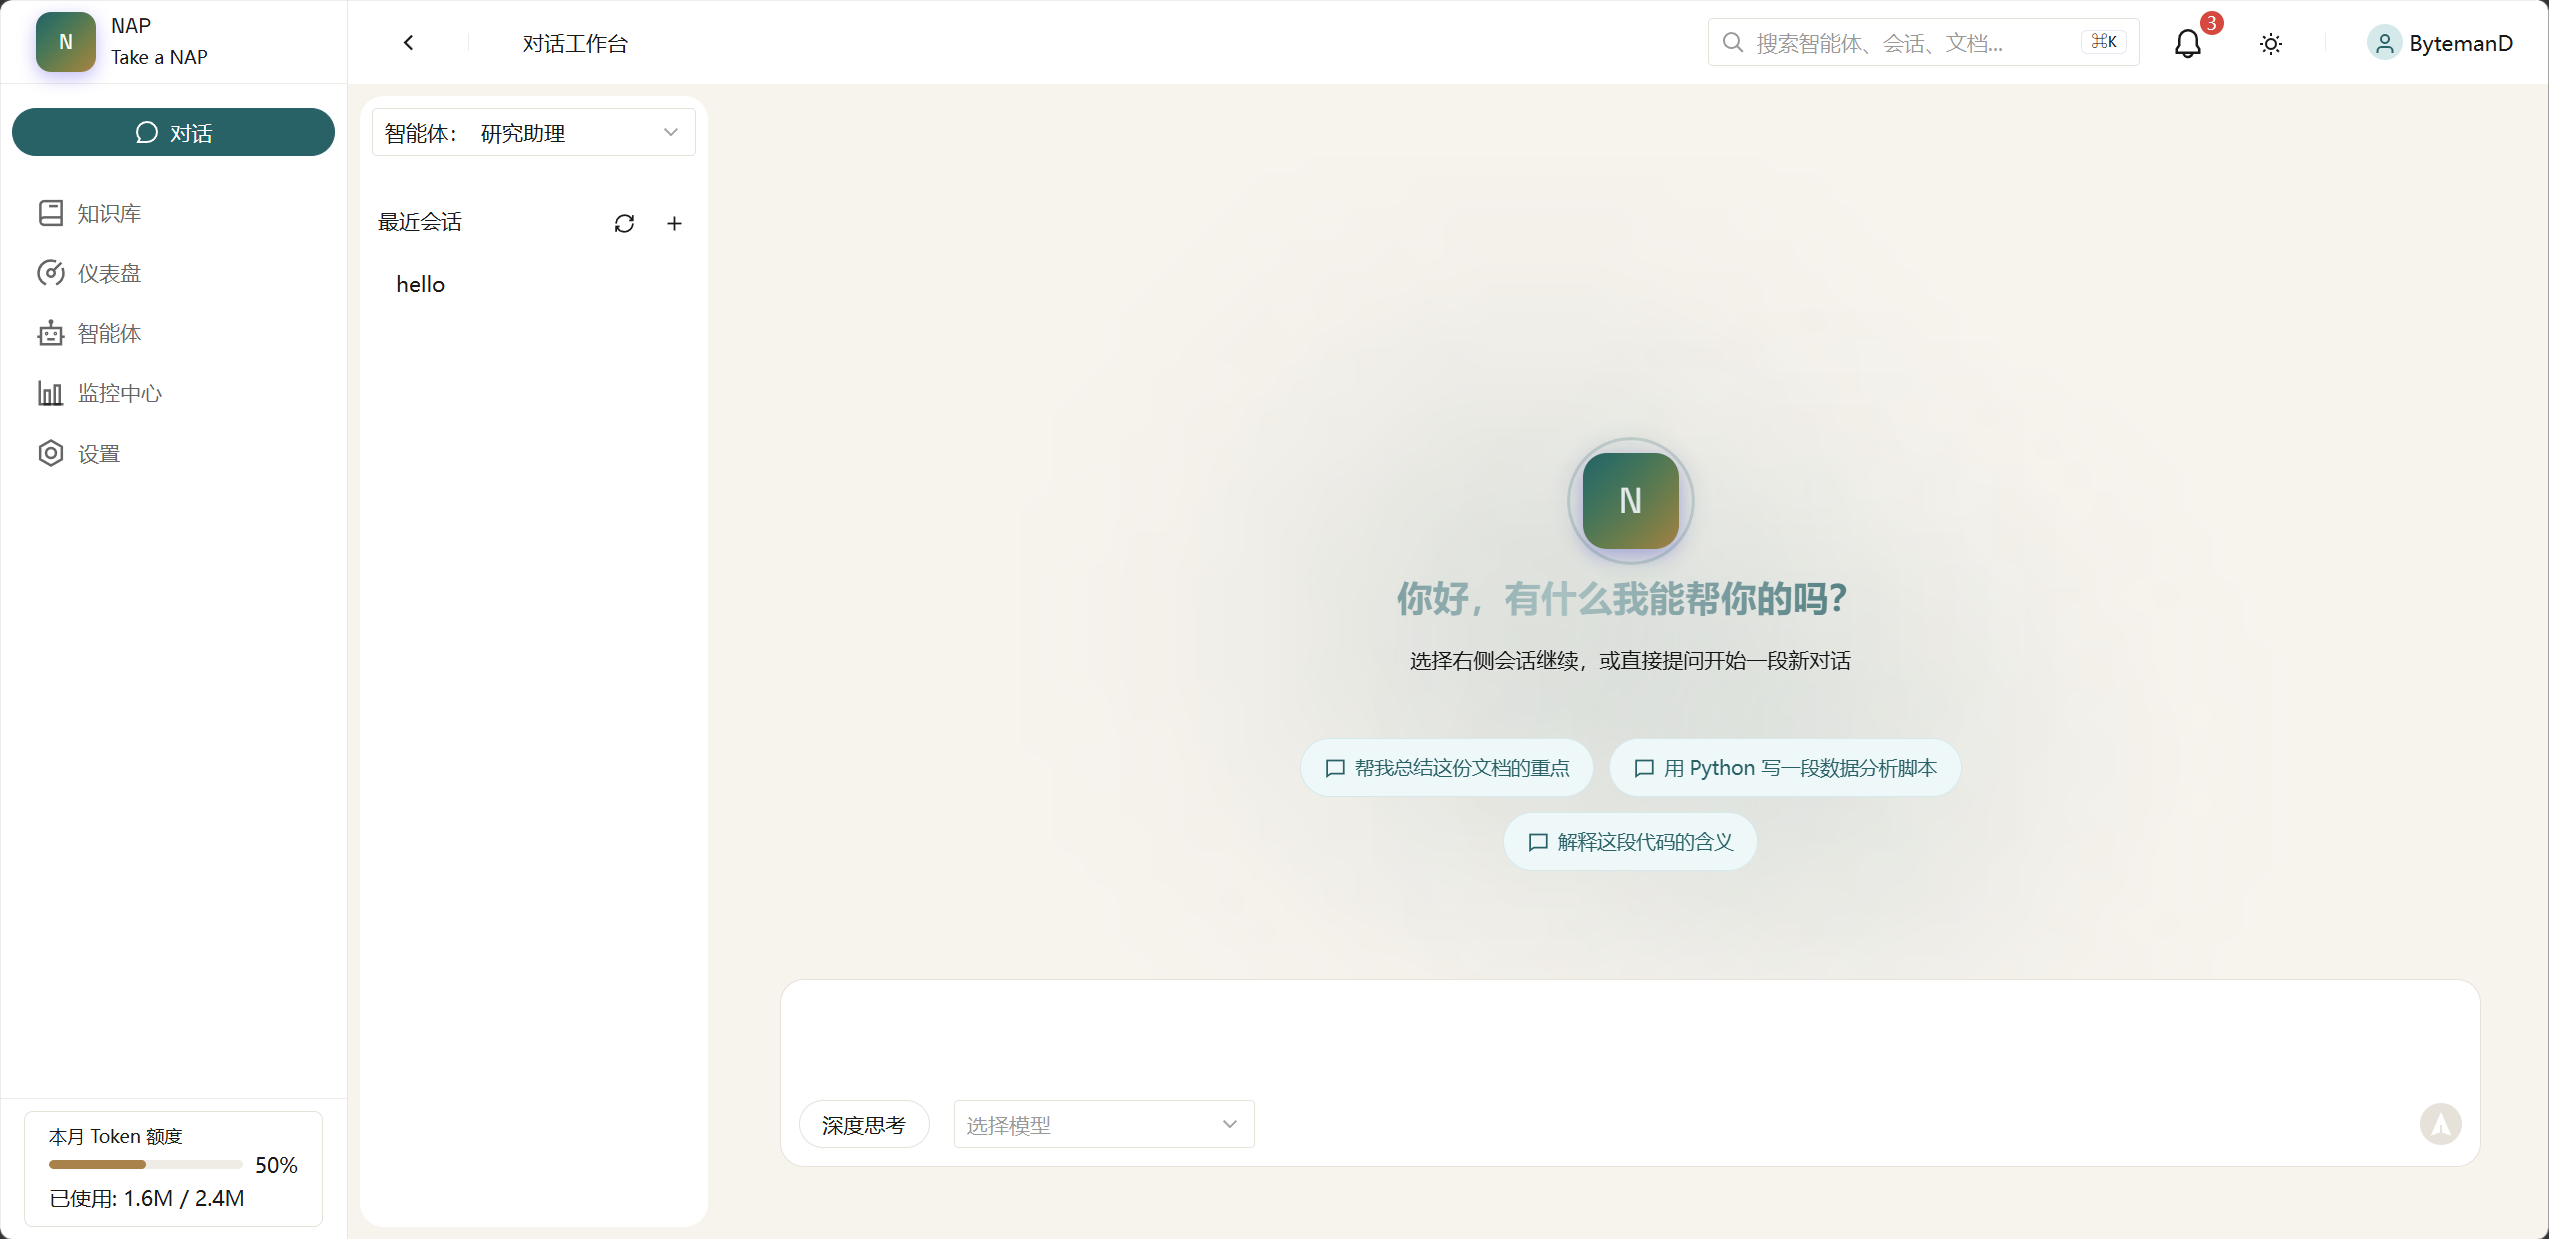
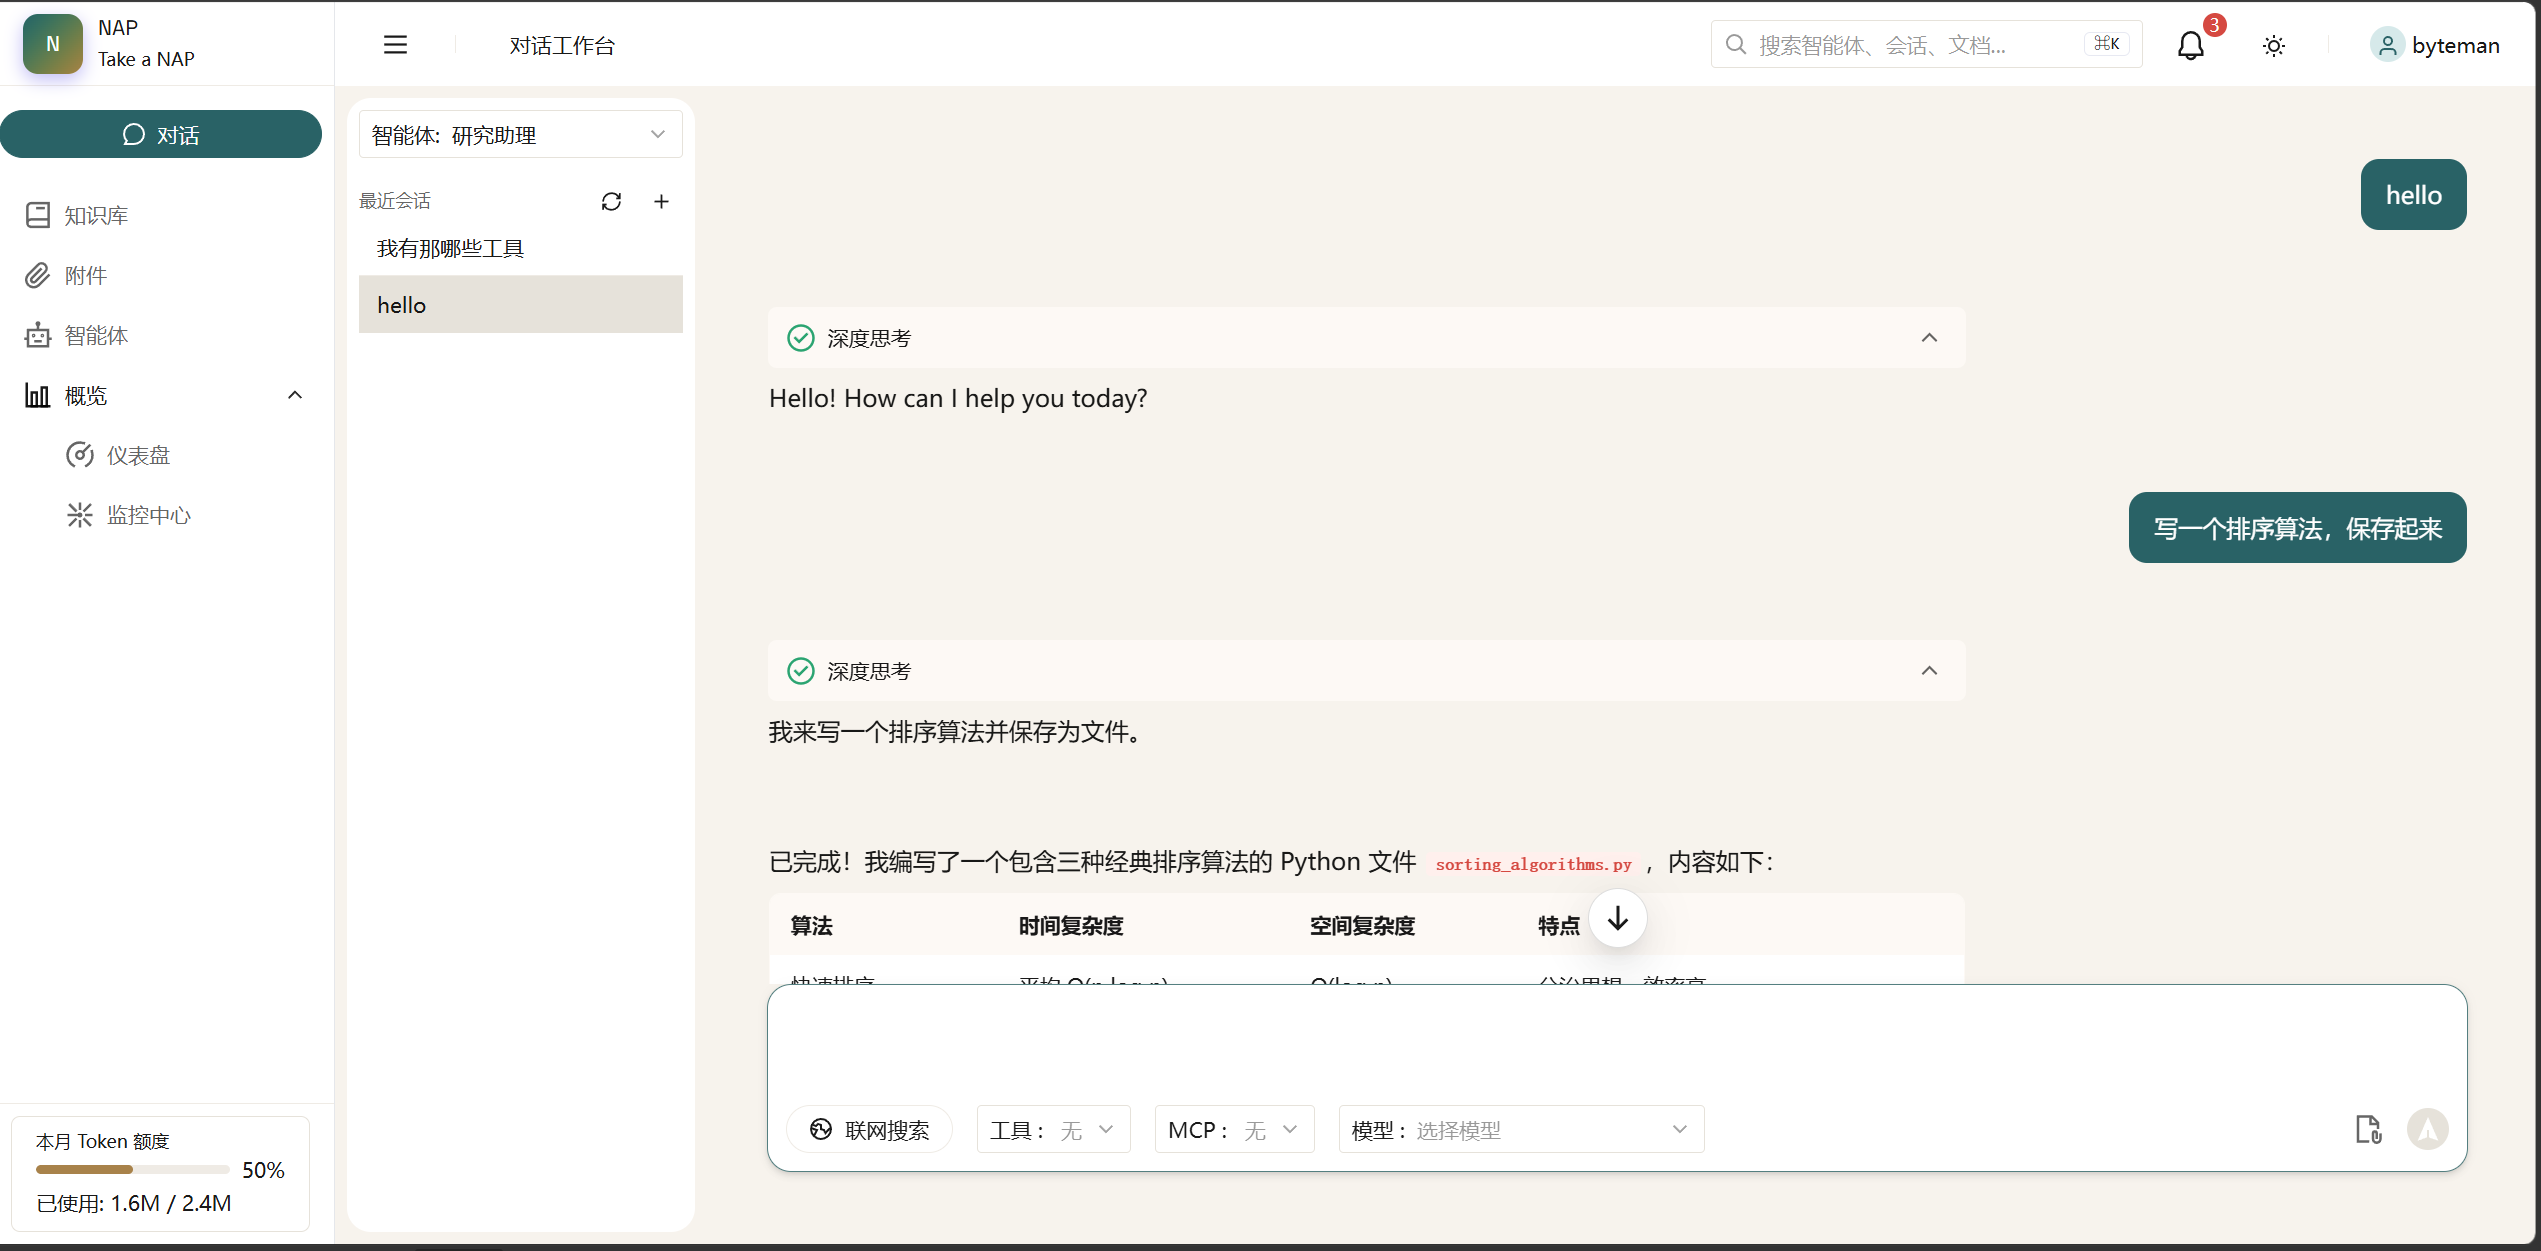
feat: 更新文档，添加启动脚本

diff --git a/nap-backend/nap/master/manager.py b/nap-backend/nap/master/manager.py
@@ -62,15 +62,22 @@ class MasterManager(BaseManager):
         self.knowledge_client = default_client(
             base_url=CONF.master.knowledge_base_url, raise_for_status=True
         )
-        self._agent: AsyncAgent = AsyncAgent()
+        self._agent: AsyncAgent | None = None
 
     async def start(self):
         await super().start()
-        # self._agent = AsyncAgent()
+        self._agent = AsyncAgent()
+
+    @property
+    def agent(self):
+        if not self._agent:
+            self._agent = AsyncAgent()
+        return self._agent
 
     async def stop(self):
         await super().stop()
-        await self._agent.stop()
+        if self._agent:
+            await self._agent.stop()
 
     def list_llm(self):
         return LLMs.query(LLMs.user == context.getvar("account"))
@@ -296,7 +303,7 @@ class MasterManager(BaseManager):
             # tool_args=db_agent.tools,
         )
 
-        async for event in self._agent.chat(runtime_context, query):
+        async for event in self.agent.chat(runtime_context, query):
             if isinstance(event, AgentCallback):
                 self.run_background_job(event.create)
                 continue
@@ -319,11 +326,11 @@ class MasterManager(BaseManager):
         return STORE_SERVICE.get_raw(knowledge)
 
     def list_tools(self):
-        return self._agent.toolkits
+        return self.agent.toolkits
         # return [ToolModel.from_llm_tool(x) for x in CUSTOM_TOOLS]
 
     async def list_messages(self, session: Session | str):
-        return await self._agent.list_messages(session)
+        return await self.agent.list_messages(session)
 
     async def save_attachment(self, name: str, content: bytes):
         attachment = Attachment(

diff --git a/nap-backend/nap/cmd/root.py b/nap-backend/nap/cmd/root.py
@@ -1,11 +1,16 @@
+import os
+
 import click
 
-from nap.cmd import agent, session, knowledge, knowledge_base, tools
+import dotenv
+from nap.cmd import agent, session, knowledge, llm, knowledge_base, tools
+from pystonic.common import context
 
 
 @click.group()
 def root():
-    pass
+    dotenv.load_dotenv()
+    context.setvars(account=os.getenv("NAP_USERNAME"))
 
 
 def main():
@@ -14,6 +19,7 @@ def main():
     root.add_command(agent.root)
     root.add_command(session.root)
     root.add_command(tools.root)
+    root.add_command(llm.root)
     root()
 
 

diff --git a/nap-backend/nap/cmd/tools.py b/nap-backend/nap/cmd/tools.py
@@ -1,13 +1,19 @@
+import asyncio
+
 import click
 from nap.master.manager import MANAGER
 from pystonic.pretty.output import print_models
 
 
-@click.group(name="tools")
+@click.group(name="tool")
 def root():
     pass
 
 
+async def _list_tools():
+    return MANAGER.list_tools()
+
+
 @root.command("list")
 def list_tools():
-    print_models(MANAGER.list_tools())
+    print_models([x.metadata() for x in asyncio.run(_list_tools())])

diff --git a/nap-backend/nap/cmd/llm.py b/nap-backend/nap/cmd/llm.py
@@ -1,0 +1,13 @@
+import click
+from nap.master.manager import MANAGER
+from pystonic.pretty.output import print_models
+
+
+@click.group(name="llm")
+def root():
+    pass
+
+
+@root.command("list")
+def list_tools():
+    print_models(MANAGER.list_llm())

diff --git a/README.md b/README.md
@@ -4,7 +4,10 @@
 
 NAP 是一个轻量级的 AI 智能体与知识库融合平台：支持创建、配置多种智能体并与之对话，同时以知识库驱动检索增强，让每一次回答都有据可依。
 
-![系统截图](docs/chat.png)
+| 预览 |  |
+|------|------|
+| ![对话](docs/chat.png) | ![监控](docs/monitor.png) |
+
 
 ---
 
@@ -13,11 +16,28 @@ NAP 是一个轻量级的 AI 智能体与知识库融合平台：支持创建、
 | 模块 | 说明 |
 |------|------|
 | **仪表盘** | 运行状态总览、核心指标统计 |
-| **智能体** | 创建 / 编辑 / 删除智能体，配置工具与知识库 |
-| **对话工作台** | 流式对话、思考过程可视化、会话管理 |
-| **知识库** | 文档上传与 URL 抓取，向量化检索 |
-| **监控中心** | Trace 追踪、延迟分布、Token 与成本统计 |
-| **设置** | LLM 提供商配置、系统通知管理 |
+| **智能体** | 创建 / 编辑 / 删除智能体，配置 LLM、工具、知识库与 MCP |
+| **对话工作台** | 流式对话、思考过程可视化、会话管理、附件上下文 |
+| **知识库** | 文档上传与 URL 抓取，向量化检索与处理进度 |
+| **附件** | 文件上传管理，支持 md / txt / html 在线预览与下载 |
+| **监控中心** | Token 用量、延迟分布、调用统计 |
+| **设置** | LLM 提供商配置、MCP 服务管理 |
+
+---
+
+## 系统架构
+
+```mermaid
+flowchart LR
+    FE[前端 Vue 3<br/>:3000] -->|/api| MASTER[Master 服务<br/>FastAPI :8000]
+    MASTER -->|HTTP :8001| KB[Knowledge 服务<br/>FastAPI :8001]
+    MASTER --> DB
+    KB --> VEC[(ChromaDB)]
+    KB --> RAW[(文件存储)]
+```
+
+- **Master**：面向前端的业务服务，负责用户、智能体、会话、附件、监控，并编排 Agent 对话。
+- **Knowledge**：独立的向量化服务，负责文档解析、向量入库与检索召回。
 
 ---
 
@@ -28,10 +48,13 @@ NAP 是一个轻量级的 AI 智能体与知识库融合平台：支持创建、
 | 技术 | 用途 |
 |------|------|
 | Python 3.13 + FastAPI | Web 框架，异步接口 |
-| SQLModel | ORM，SQLite 持久化 |
+| SQLModel + SQLite | ORM 与持久化 |
+| pystonic | 应用脚手架（鉴权、日志、ORM、上下文） |
 | ChromaDB + LangChain | 文档向量化与检索 |
-| OpenAI Agents SDK / DeepAgents | Agent 协议与工具调用 |
+| OpenAI Agents SDK | Agent 协议与工具调用 |
+| LangGraph（checkpoint-sqlite） | 会话状态与持久化 |
 | SSE（sse-starlette） | 流式响应推送 |
+| markitdown | 文档 → Markdown 转换 |
 | Loguru | 日志记录 |
 
 ### 前端
@@ -39,34 +62,70 @@ NAP 是一个轻量级的 AI 智能体与知识库融合平台：支持创建、
 | 技术 | 用途 |
 |------|------|
 | Vue 3 + TypeScript | 响应式 UI |
+| Vite | 构建与开发服务器 |
 | TDesign Vue Next | 企业级组件库 |
 | @tdesign-vue-next/chat | AI 对话组件（消息流、输入框） |
 | Pinia | 状态管理 |
 | Vue Router | 路由 |
 | UnoCSS | 原子化 CSS |
 | ECharts（vue-echarts） | 图表渲染 |
+| markdown-it + highlight.js | Markdown 渲染与代码高亮 |
 
 ---
 
 ## 快速开始
 
-### 后端
+### 方式一：一键脚本（推荐）
+
+项目根目录提供了按服务启动的脚本，支持类 Unix 与 Windows：
+
+```bash
+./run-server.sh master       # 启动 Master 服务 (port 8000)
+./run-server.sh knowledge    # 启动 Knowledge 服务 (port 8001)
+./run-server.sh frontend     # 启动前端开发服务 (vite, port 3000)
+
+./run-server.sh master --port 9000   # 支持追加参数
+```
+
+```bat
+run-server.bat master
+run-server.bat knowledge
+run-server.bat frontend
+```
+
+> 首次运行前请先分别安装依赖（见下）。
+
+### 方式二：手动启动
+
+**后端**（需在 `nap-backend` 目录执行）：
 
 ```bash
 cd nap-backend
-uv sync                                      # 安装依赖
-uv run uvicorn nap.master.asgi:APP --reload  # 启动服务 http://localhost:8000
+uv sync                                            # 安装依赖
+
+uv run uvicorn nap.master.asgi:APP --reload --port 8000       # Master
+uv run uvicorn nap.knowledge.asgi:APP --reload --port 8001    # Knowledge
 ```
 
-### 前端
+**前端**：
 
 ```bash
 cd nap-frontend
-npm install        # 安装依赖
-npm run dev        # 启动开发服务器 http://localhost:3000
+npm install
+npm run dev        # http://localhost:3000
 ```
 
-前端开发服务器会将 `/api` 请求代理到后端 `localhost:8000`。
+前端开发服务器会把 `/api` 与 `/ws` 代理到 `localhost:8000`。
+
+> Master 默认通过 `http://localhost:8001` 访问 Knowledge 服务，可在配置中调整。
+
+### 服务端口
+
+| 服务 | 端口 | 说明 |
+|------|------|------|
+| Master | 8000 | 业务 API，接口文档 `/api/docs` |
+| Knowledge | 8001 | 向量化与检索 |
+| Frontend | 3000 | 开发服务器 |
 
 ---
 
@@ -74,24 +133,34 @@ npm run dev        # 启动开发服务器 http://localhost:3000
 
 ```
 next-agents-platform/
-├── nap-backend/                # 后端服务
-│   └── nap/
-│       ├── master/             # FastAPI 入口与路由
-│       │   ├── asgi.py         # ASGI 应用注册
-│       │   └── api/v1/         # REST 接口模块
-│       ├── llm/                # LLM 驱动层
-│       ├── knowledge/          # 知识库管理
-│       ├── db/                 # 数据库模型
-│       └── cmd/                # CLI 命令
-├── nap-frontend/               # 前端应用
+├── nap-backend/                    # 后端（uv 管理）
+│   ├── nap/
+│   │   ├── master/                 # Master 服务
+│   │   │   ├── asgi.py             # ASGI 入口（鉴权 / 路由注册）
+│   │   │   ├── manager.py          # 业务编排（智能体、知识、附件…）
+│   │   │   ├── agent/              # Agent 运行时
+│   │   │   │   └── tools/          # 工具集：builtin / web_search / mysql / mcp
+│   │   │   └── api/v1/             # REST 接口模块
+│   │   ├── knowledge/              # Knowledge 服务（独立 ASGI 应用）
+│   │   │   ├── api/v1/             # documents / retrival / knowledge
+│   │   │   └── graph/              # 文档处理流程
+│   │   ├── services/               # 通用服务：convert / enrich / vector / storage
+│   │   ├── db/                     # 数据模型与迁移
+│   │   ├── llm/                    # LLM 驱动层
+│   │   ├── common/                 # 配置、对象、客户端
+│   │   └── cmd/                    # CLI 命令
+│   └── pyproject.toml
+├── nap-frontend/                   # 前端（Vite + Vue 3）
 │   └── src/
-│       ├── pages/              # 页面组件
-│       ├── components/         # 通用与布局组件
-│       ├── stores/             # Pinia 状态
-│       ├── api/                # 后端接口封装
-│       ├── router/             # 路由配置
-│       └── styles/             # 主题与全局样式
-├── docs/                       # 文档与截图
+│       ├── pages/                  # 页面组件
+│       ├── components/             # 通用与布局组件
+│       ├── stores/                 # Pinia 状态
+│       ├── api/                    # 后端接口封装（axios）
+│       ├── router/                 # 路由配置
+│       └── styles/                 # 主题与全局样式
+├── docs/                           # 文档与截图
+├── run-server.sh                   # 服务启动脚本（类 Unix）
+├── run-server.bat                  # 服务启动脚本（Windows）
 └── README.md
 ```
 
@@ -99,20 +168,56 @@ next-agents-platform/
 
 ## API 接口
 
-基础路径：`/api/v1`
+基础路径：`/api/v1`，除注册与登录外均需携带 `Authorization: Bearer <token>`。
+
+### Master 服务（:8000）
 
 | 模块 | 路径 | 主要接口 |
 |------|------|---------|
-| Agents | `/agents` | CRUD + `/{uuid}/chat`（流式对话） |
-| Sessions | `/sessions` | 列表、消息历史、删除 |
-| Knowledge Base | `/knowledge-base` | CRUD + 文档上传 |
-| Knowledge | `/knowledge` | 文档详情与更新 |
-| LLMs | `/llms` | 模型提供商配置 CRUD |
+| 认证 | `/auth` | `login`、`token`（刷新） |
+| 用户 | `/users` | 注册、`/me`、更新、删除 |
+| 智能体 | `/agents` | CRUD、`/{uuid}/detail`、`/{uuid}/chat`（流式对话） |
+| 会话 | `/sessions` | 列表、`/{id}/messages` 消息历史、删除 |
+| 知识库 | `/knowledge-bases` | CRUD、`/{id}/stats`、`/{id}/knowledges` 关联文档、文件上传 |
+| 文档 | `/knowledges` | 列表、详情、`/{uuid}/todos`、`/{uuid}/content`（原始内容）、删除 |
+| 附件 | `/attachments` | 上传、列表、`/{uuid}`（元信息）、`/{uuid}/content`（原始内容）、删除 |
+| 模型 | `/llms` | LLM 提供商 CRUD |
+| MCP | `/mcps` | MCP 服务 CRUD |
+| 工具 | `/toolkits` | 可用工具集列表 |
+| 监控 | `/monitoring` | `token-usage`、`models`、`latency` |
+| 仪表盘 | `/dashboard` | 运行状态与指标汇总 |
+
+### Knowledge 服务（:8001）
+
+| 模块 | 路径 | 主要接口 |
+|------|------|---------|
+| 文档 | `/documents` | 向量库文档查询 |
+| 召回 | `/retrival` | 向量相似度检索 |
+| 知识 | `/knowledges` | 删除 |
+
+---
+
+## 前端路由
+
+| 路径 | 页面 |
+|------|------|
+| `/login`、`/register` | 登录 / 注册 |
+| `/dashboard` | 仪表盘 |
+| `/agents`、`/agents/builder[/:id]` | 智能体列表 / 构建与编辑 |
+| `/playground` | 对话工作台 |
+| `/knowledge`、`/knowledge/:id` | 知识库列表 / 详情 |
+| `/attachments` | 附件管理 |
+| `/attachments/:id`、`/knowledges/:id` | 文件在线预览（独立页面） |
+| `/monitoring` | 监控中心 |
+| `/settings` | 设置 |
 
 ---
 
 ## 开发
 
-- **后端 CLI**：`uv run nap <command>`（支持 `agent`、`session` 子命令）
-- **数据库**：SQLite，位于 `data/` 目录，启动时自动建表
-- **向量库**：ChromaDB，位于 `data/chromadb/`
+- **后端 CLI**：`uv run nap <command>`，支持 `agent`、`session`、`knowledge`、`knowledge_base`、`tools` 子命令。
+- **数据库**：SQLite，位于 `data/` 目录，启动时自动建表并执行轻量迁移。
+- **向量库**：ChromaDB，位于 `data/chromadb/`。
+- **文件存储**：默认文件系统驱动，位于 `data/raw/`。
+- **鉴权**：基于 JWT，`sub` 为用户名；前端 Token 存于 `localStorage`（`nap_token`）并自动刷新。
+- **前端校验**：`npm run typecheck`（`vue-tsc --noEmit`）。
